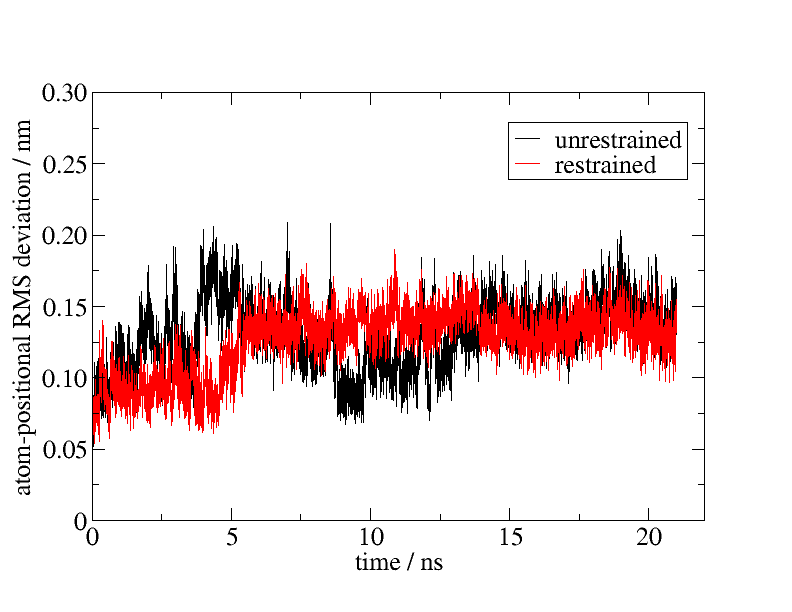
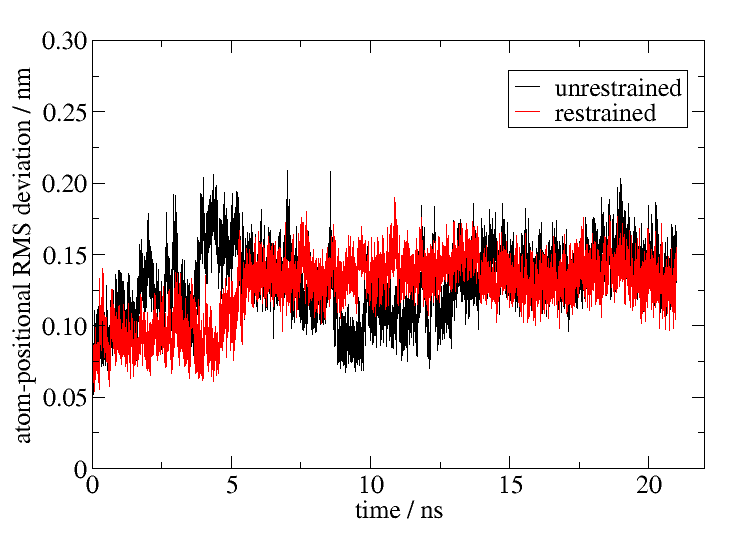
update tutorial; review correction and figures

diff --git a/review_process/revised_1.1/04_tutorial_01/tutorial_01.tex b/review_process/revised_1.1/04_tutorial_01/tutorial_01.tex
@@ -195,21 +195,21 @@ Figure~\ref{GB3_S2} shows a relatively small influence of the averaging time on 
 
 \begin{figure}[t]
 \centering
-\includegraphics[scale=.3]{../04_tutorial_01/figures/GB3_RMSD}
+\includegraphics[scale=.32]{../04_tutorial_01/figures/GB3_RMSD}
 \caption{Backbone atom-positional root-mean-square deviation (RMSD) of GB3 with respect to the final structure of the equilibration simulation.}
 \label{GB3_rmsd}
 \end{figure}
 
 \begin{figure}[t]
 \centering
-\includegraphics[scale=.3]{../04_tutorial_01/figures/GB3_RMSF}
+\includegraphics[scale=.32]{../04_tutorial_01/figures/GB3_RMSF}
 \caption{Backbone N atom-positional root-mean-square fluctuation (RMSF) of GB3.}
 \label{GB3_rmsf}
 \end{figure}
 
 \begin{figure}[t]
 \centering
-\includegraphics[scale=.3]{../04_tutorial_01/figures/GB3_S2}
+\includegraphics[scale=.32]{../04_tutorial_01/figures/GB3_S2}
 \caption{Comparison of backbone N-H order parameters for protein GB3, determined from unrestrained (U) and restrained (R) MD simulations using different averaging time windows (atw) in the analysis. The experimentally derived order parameters used for restraining were taken from the work of Hall and Fushman ~\cite{Hall_2003} (anisotropic model).}
 \label{GB3_S2}
 \end{figure}

diff --git a/review_process/revised_1.1/06_tutorial_03/tutorial_03.tex b/review_process/revised_1.1/06_tutorial_03/tutorial_03.tex
@@ -186,7 +186,7 @@ The resulting \texttt{rep\_change.out} file can be opened with \linebreak Xmgrac
 
 \begin{figure}[t]
 \centering
-\includegraphics[scale=.3]{../06_tutorial_03/figures/rep_change}
+\includegraphics[scale=.32]{../06_tutorial_03/figures/rep_change}
 \caption{Replica exchanges during time. Different colors represent different replicas.}
 \label{rep_change}
 \end{figure}
@@ -229,7 +229,7 @@ However, we can still see where the plateau of the unbound range is, so we will 
 
 \begin{figure}[t]
 \centering
-\includegraphics[scale=.3]{../06_tutorial_03/figures/FEC}
+\includegraphics[scale=.32]{../06_tutorial_03/figures/FEC}
 \caption{Free Energy Curve (FEC) along the DF distance as obtained from HREMD simulations, for the PLA2-ASA system.}
 \label{FEC}
 \end{figure}

diff --git a/review_process/revised_1.1/08_tutorial_05/tutorial_05.tex b/review_process/revised_1.1/08_tutorial_05/tutorial_05.tex
@@ -58,7 +58,6 @@ To get the acceleration parameters ($E_{max}$, $E_{min}$, offsets) a search simu
 Go to the directory \texttt{search}. In this folder, you will find three files namely \texttt{aeds.arg}, \texttt{aeds.job}, and \texttt{aeds.imd}. Let's start with the \texttt{aeds.imd} file. This file is a simulation input file we already know from previous tutorials. At the bottom of the file, we have an additional \texttt{AEDS} block.
 
 \begin{lstlisting}
-
 AEDS
 # AEDS
      1

diff --git a/review_process/revised_1.1/05_tutorial_02/tutorial_02.tex b/review_process/revised_1.1/05_tutorial_02/tutorial_02.tex
@@ -133,7 +133,7 @@ BAR is computationally more efficient and converges relatively fast compared to 
 
 \begin{figure}[t]
     \centering
-    \includegraphics[scale=0.3]{../05_tutorial_02/figures/ana_TI.png}
+    \includegraphics[scale=0.32]{../05_tutorial_02/figures/ana_TI.png}
     \caption{The reweighted property $\left<\frac{\partial\mathcal{H}}{\partial\lambda}\right>$ for $\lambda$=0 to $\lambda$=1 for both systems ASA and PLA$_2$\_ASA.}
     \label{TI_ASA}
 \end{figure}
